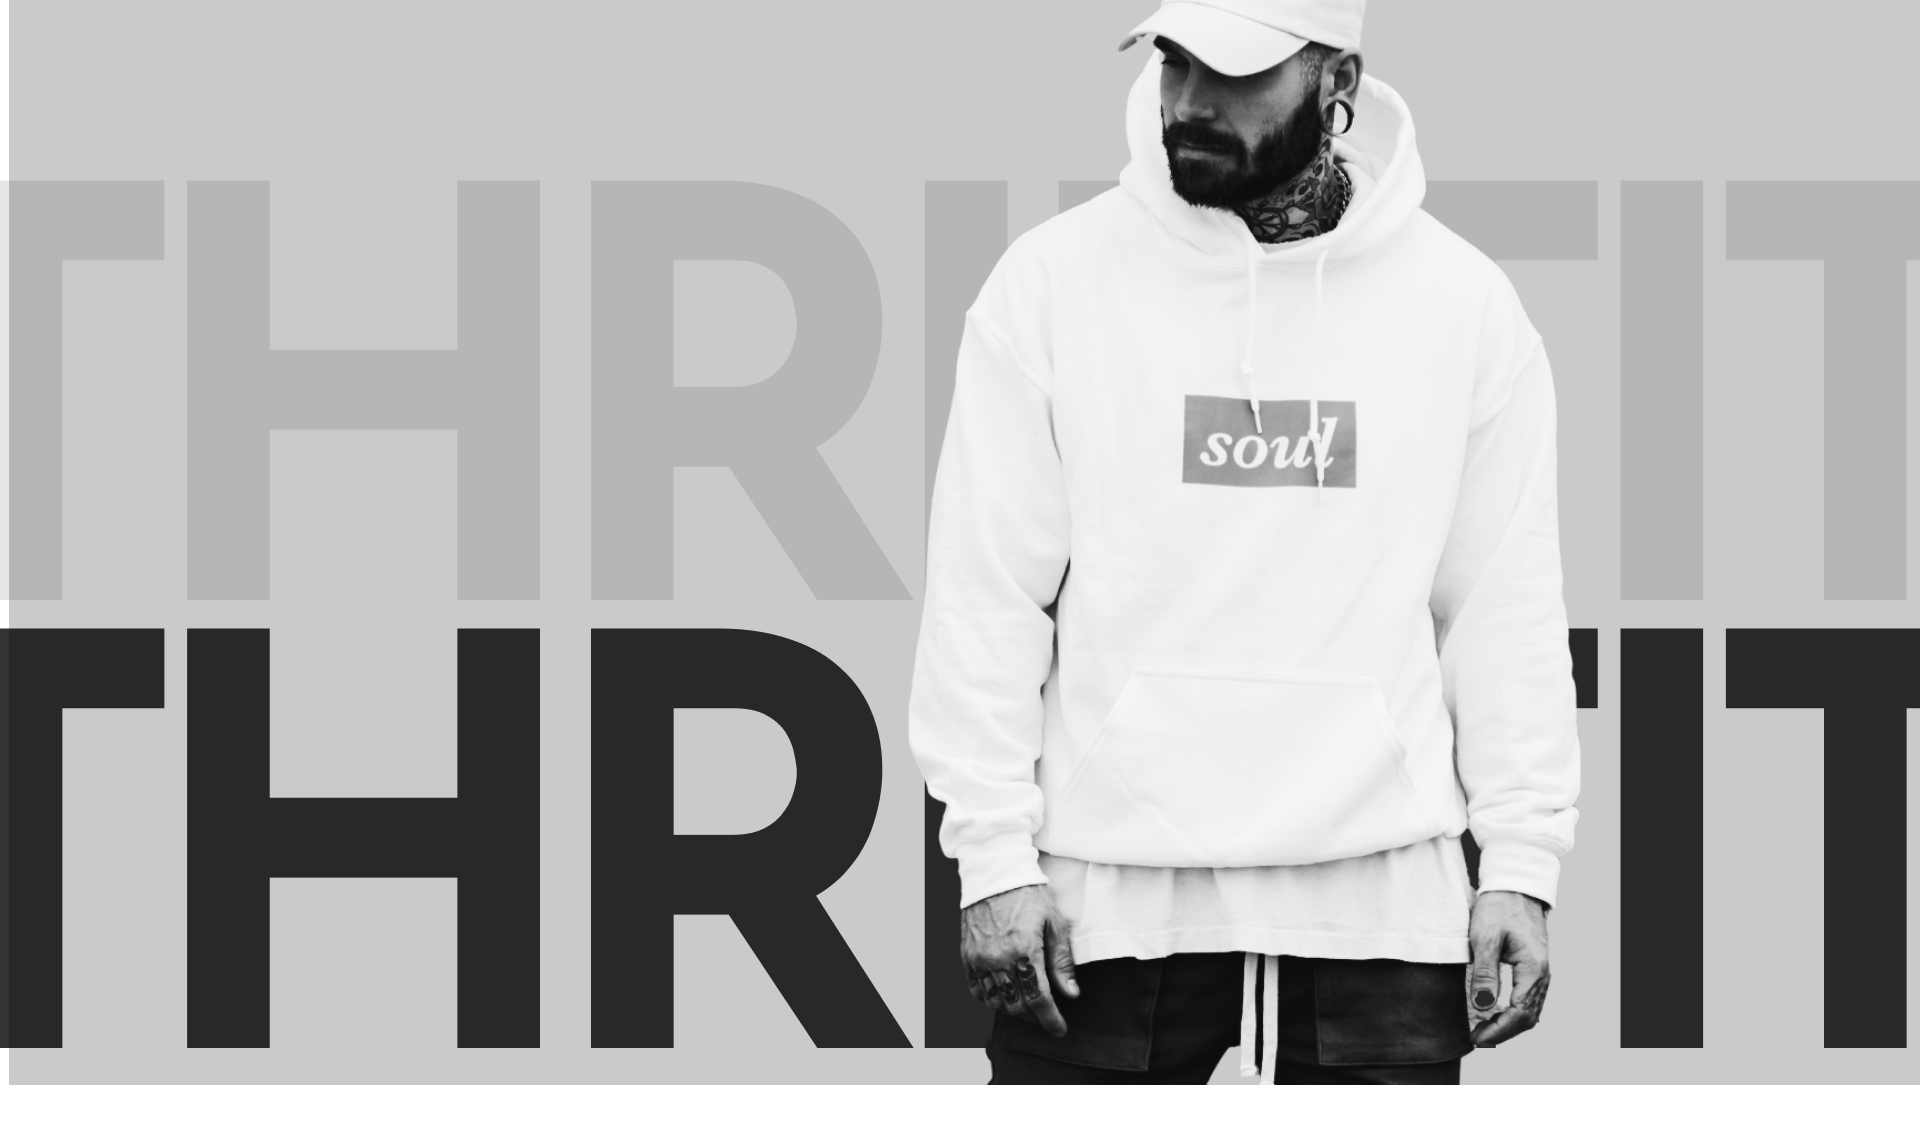
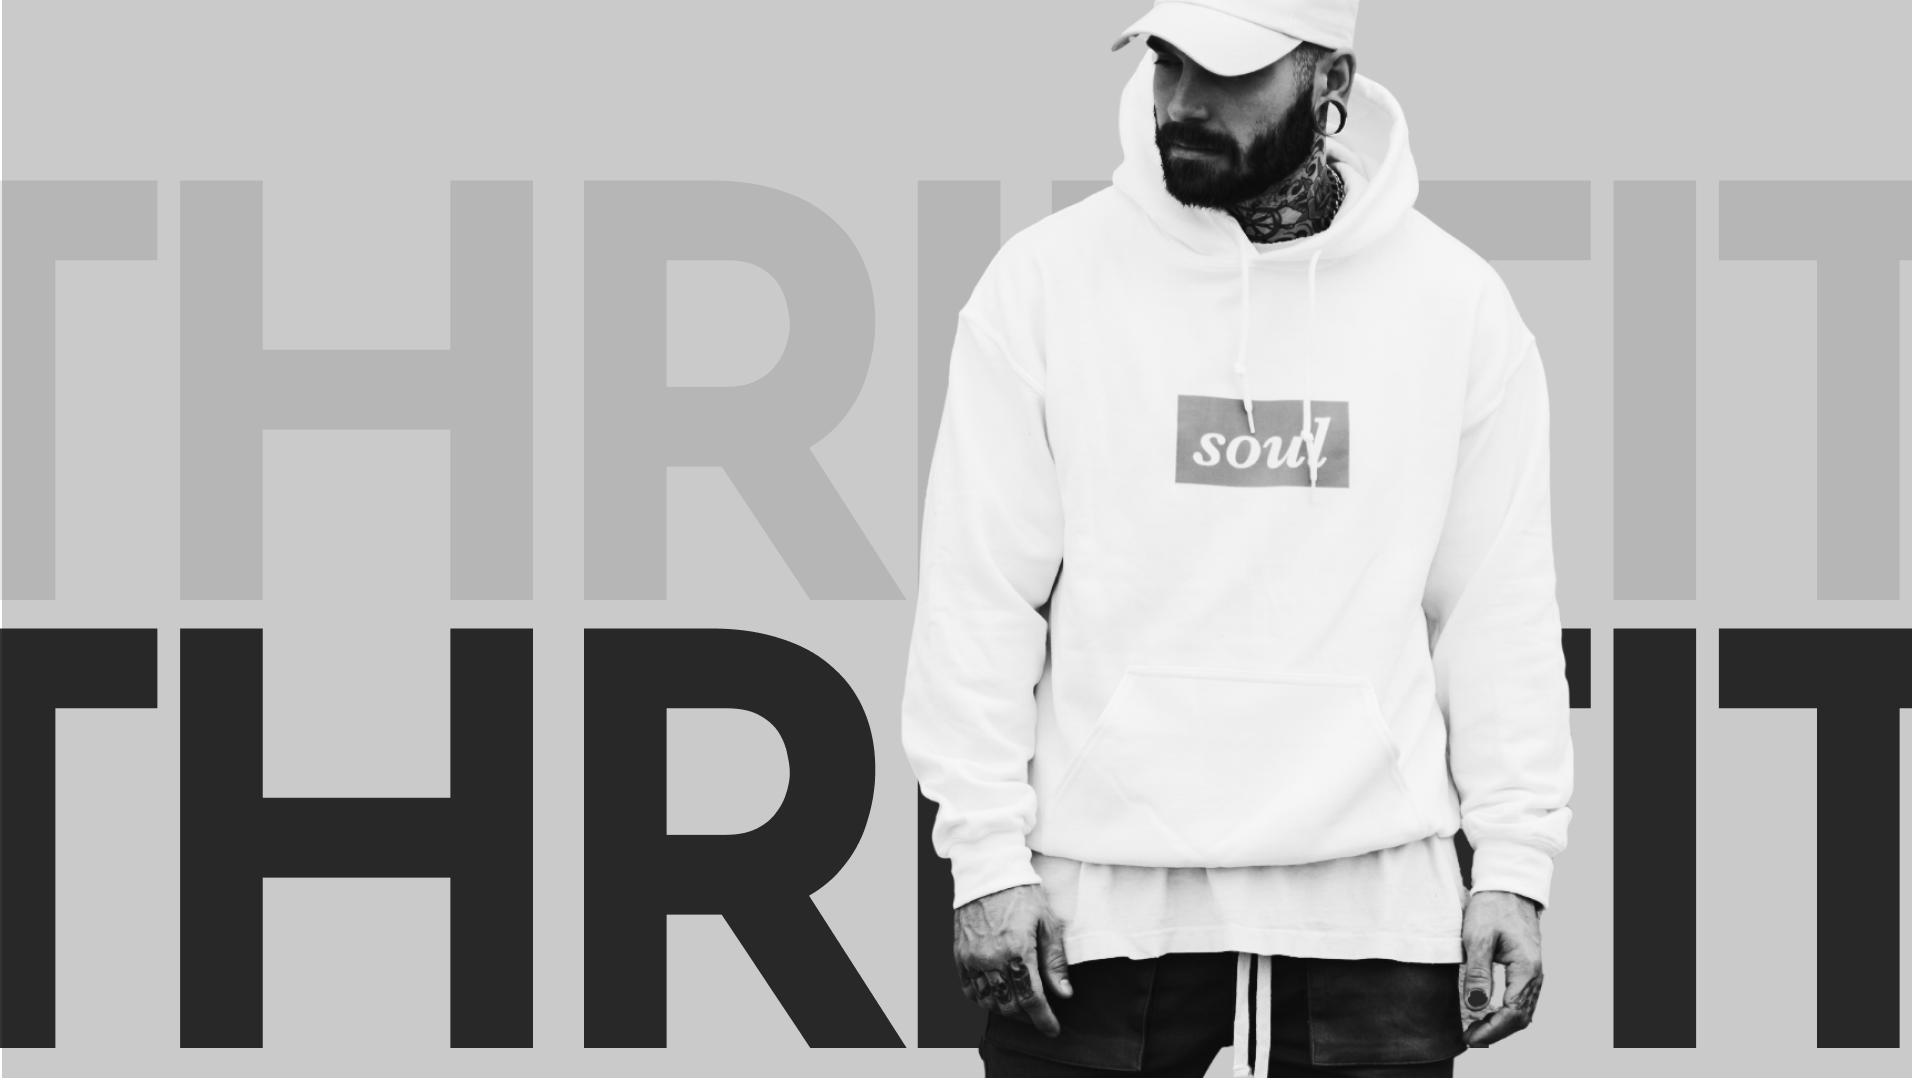
image fixed + footer semi black xd (not finished)

diff --git a/index1.html b/index1.html
@@ -8,162 +8,9 @@
   </head>
   <body>
     <div class="home-page-NO-LOGIN">
-      <div class="div">
-        <div class="overlap">
-          <footer class="footer">
-            <div class="overlap-group">
-              <div class="bottom">
-                <p class="text-wrapper">© 2022 ThriftIT. All rights reserved.</p>
-                <div class="rectangle"></div>
-              </div>
-              <div class="payments-shipping">
-                Payments<br />shipping<br />product Returns<br />faqs<br />checkout<br />other Issues
-              </div>
-              <div class="help-centre">HELP CENTRE</div>
-              <p class="how-it-work-our">How It Work<br />our Packages<br />promotions<br />refer A Friend</p>
-              <div class="about">ABOUT</div>
-              <div class="home-about-us-offers">Home<br />about Us<br />offers<br />services<br />contact Us</div>
-              <div class="quick-links">QUICK LINKS</div>
-              <div class="social">
-                <div class="text-wrapper-2"></div>
-                <div class="text-wrapper-3"></div>
-                <div class="text-wrapper-4"></div>
-                <div class="text-wrapper-5"></div>
-                <div class="text-wrapper-6"></div>
-                <div class="text-wrapper-7"></div>
-              </div>
-              <div class="logo"><div class="thrifti-t">THRIFTIT</div></div>
-            </div>
-          </footer>
-          <div class="banner">
-            <div class="register-form">
-              <button class="btn">
-                <div class="subscribe-now-wrapper"><div class="subscribe-now">SUBSCRIBE NOW</div></div>
-              </button>
-              <div class="email-address">
-                <div class="div-wrapper"><div class="text-wrapper-8">Your email address</div></div>
-              </div>
-              <p class="p">Sign Up for our newsletter and never miss any offers</p>
-              <p class="get-OFF-on-your">
-                <span class="span">Get </span>
-                <span class="text-wrapper-9">20% OFF</span>
-                <span class="text-wrapper-10">&nbsp;</span>
-                <span class="span">on your first purchase</span>
-              </p>
-            </div>
-          </div>
-        </div>
-        <div class="features">
-          <div class="group">
-            <div class="element-secure-payment">100% Secure Payment</div>
-            <p class="lorem-ipsum-dolor">Lorem Ipsum Dolor Sit Amet, Consectetur Adipi Elit. Ipsum Dolor Sit Amet.</p>
-            <img class="img" src="https://c.animaapp.com/HCn1ESSz/img/group@2x.png" />
-          </div>
-          <div class="group-2">
-            <div class="quality-guarantee">Quality Guarantee</div>
-            <p class="lorem-ipsum-dolor-2">Lorem Ipsum Dolor Sit Amet, Consectetur Adipi Elit. Ipsum Dolor Sit Amet.</p>
-            <img class="group-3" src="https://c.animaapp.com/HCn1ESSz/img/group-3@2x.png" />
-          </div>
-          <div class="group-4">
-            <div class="guaranteed-savings">Guaranteed Savings</div>
-            <p class="lorem-ipsum-dolor-3">Lorem Ipsum Dolor Sit Amet, Consectetur Adipi Elit. Ipsum Dolor Sit Amet.</p>
-            <img class="group-5" src="https://c.animaapp.com/HCn1ESSz/img/group-2@2x.png" />
-          </div>
-          <div class="group-6">
-            <div class="text-wrapper-11">Fast delivery</div>
-            <p class="count-on-us-to">
-              Count On Us To Uphold Our Promise Of Efficiency And Speed, Bringing Your Order To Your Doorstep In No Time
-              At All.
-            </p>
-            <img class="group-7" src="https://c.animaapp.com/HCn1ESSz/img/group-1@2x.png" />
-          </div>
-        </div>
-        <div class="products">
-          <div class="element">
-            <img class="rectangle-2" src="https://c.animaapp.com/HCn1ESSz/img/rectangle-127-1@2x.png" />
-            <div class="text-wrapper-12">Prototype</div>
-            <div class="text-wrapper-13">$30.00</div>
-          </div>
-          <div class="element-2">
-            <img class="rectangle-2" src="https://c.animaapp.com/HCn1ESSz/img/rectangle-127@2x.png" />
-            <div class="text-wrapper-12">Prototype</div>
-            <div class="text-wrapper-13">$30.00</div>
-          </div>
-          <div class="element-3">
-            <img class="rectangle-3" src="https://c.animaapp.com/HCn1ESSz/img/rectangle-119-3@2x.png" />
-            <div class="PROTOTYPE">Prototype</div>
-            <div class="text-wrapper-14">$99.00</div>
-          </div>
-          <div class="element-4">
-            <img class="rectangle-3" src="https://c.animaapp.com/HCn1ESSz/img/rectangle-119-2@2x.png" />
-            <div class="PROTOTYPE">Prototype</div>
-            <div class="text-wrapper-14">$99.00</div>
-          </div>
-          <div class="element-5">
-            <img class="rectangle-2" src="https://c.animaapp.com/HCn1ESSz/img/rectangle-119-1@2x.png" />
-            <div class="PROTOTYPE-2">Prototype</div>
-            <div class="text-wrapper-14">$70.00</div>
-          </div>
-          <div class="element-6">
-            <img class="rectangle-2" src="https://c.animaapp.com/HCn1ESSz/img/rectangle-119@2x.png" />
-            <div class="PROTOTYPE-2">Prototype</div>
-            <div class="text-wrapper-14">$90.00</div>
-          </div>
-          <div class="element-7">
-            <div class="PROTOTYPE-3">Prototype</div>
-            <div class="text-wrapper-15">$30.00</div>
-            <img class="rectangle-2" src="https://c.animaapp.com/HCn1ESSz/img/rectangle-94-1@2x.png" />
-          </div>
-          <div class="element-8">
-            <div class="PROTOTYPE-3">Prototype</div>
-            <div class="text-wrapper-15">$30.00</div>
-            <img class="rectangle-2" src="https://c.animaapp.com/HCn1ESSz/img/rectangle-94@2x.png" />
-          </div>
-          <div class="section-title">
-            <img class="line" src="https://c.animaapp.com/HCn1ESSz/img/line-1.svg" />
-            <div class="new-arrivals">NEW ARRIVALS</div>
-          </div>
-          <button class="overlap-group-wrapper">
-            <div class="view-all-products-wrapper"><div class="view-all-products">VIEW ALL PRODUCTS</div></div>
-          </button>
-        </div>
-        <div class="overlap-2">
-          <div class="billboard">
-            <div class="overlap-3">
-              <div class="slider">
-                <div class="overlap-group-2">
-                  <div class="rectangle-4"></div>
-                  <div class="text-wrapper-16">THRIFTIT</div>
-                  <div class="thriftit">THRIFTIT</div>
-                  <img
-                    class="kam-idris"
-                    src="https://c.animaapp.com/HCn1ESSz/img/kam-idris--hqhx3lbn18-unsplash-2.png"
-                  />
-                </div>
-              </div>
-              <div class="caption">
-                <div class="overlap-4">
-                  <button class="button">
-                    <div class="overlap-group-3">
-                      <div class="start-shopping">START SHOPPING</div>
-                      <img
-                        class="fluent-arrow-right"
-                        src="https://c.animaapp.com/HCn1ESSz/img/fluent-arrow-right-28-regular@2x.png"
-                      />
-                    </div>
-                  </button>
-                  <div class="street-wears">STREET<br />WEARS</div>
-                  <p class="high-quality-cool">HIGH QUALITY COOL TSHIRTS FOR STREET FASHION</p>
-                </div>
-              </div>
-            </div>
-          </div>
           <header class="header">
             <div class="nav">
-              <div class="home-shop-OUTFIT">
-                HOME&nbsp;&nbsp;&nbsp;&nbsp;&nbsp;&nbsp;&nbsp;&nbsp;&nbsp;&nbsp;&nbsp;&nbsp;SHOP&nbsp;&nbsp;&nbsp;&nbsp;&nbsp;&nbsp;&nbsp;&nbsp;&nbsp;&nbsp;&nbsp;&nbsp;OUTFIT
-                FINDER
-              </div>
+
             </div>
             <div class="rectangle-5"></div>
             <div class="cart">

diff --git a/erreur/test.Html b/erreur/test.Html
@@ -36,7 +36,6 @@
           <li><a href="#outfit" onclick="toggleMenu();">Outfit Finder</a></li>
       </ul>
     </header>
-
   <section class="home" id="home">
     <div class="caption">
         <div class="street-wears">STREET<br />WEARS</div>
@@ -61,12 +60,12 @@
         <path d="M5.026 15c6.038 0 9.341-5.003 9.341-9.334 0-.14 0-.282-.006-.422A6.685 6.685 0 0 0 16 3.542a6.658 6.658 0 0 1-1.889.518 3.301 3.301 0 0 0 1.447-1.817 6.533 6.533 0 0 1-2.087.793A3.286 3.286 0 0 0 7.875 6.03a9.325 9.325 0 0 1-6.767-3.429 3.289 3.289 0 0 0 1.018 4.382A3.323 3.323 0 0 1 .64 6.575v.045a3.288 3.288 0 0 0 2.632 3.218 3.203 3.203 0 0 1-.865.115 3.23 3.23 0 0 1-.614-.057 3.283 3.283 0 0 0 3.067 2.277A6.588 6.588 0 0 1 .78 13.58a6.32 6.32 0 0 1-.78-.045A9.344 9.344 0 0 0 5.026 15z"/>
       </symbol>
     </svg>
-    <div class="b-example-divider"></div>
+    <div class="b-example-divider .panel-footer.panel-custom "></div>
     
-    <div class="container">
-      <footer class="row row-cols-1 row-cols-sm-2 row-cols-md-5 py-5 my-5 border-top">
-        <div class="col mb-3">
-          <a href="/" class="d-flex align-items-center mb-3 link-body-emphasis text-decoration-none">
+    <div class="container .panel-footer.panel-custom">
+      <footer class="row row-cols-1 row-cols-sm-2 row-cols-md-5 py-5 my-5 border-top panel-footer panel-custom">
+        <div class="col mb-3 .panel-footer.panel-custom">
+          <a href="/" class="d-flex align-items-center mb-3 link-body-emphasis text-decoration-none ">
             <svg class="bi me-2" width="40" height="32"><use xlink:href="#bootstrap"/></svg>
           </a>
           <p class="text-body-secondary">lll</p>
@@ -98,7 +97,7 @@
           </ul>
         </div>
     
-        <div class="col mb-3">
+        <div class="">
           <h5>HELP CENTRE</h5>
           <ul class="nav flex-column">
             <li class="nav-item mb-2"><a href="#" class="nav-link p-0 text-body-secondary">Payments</a></li>

diff --git a/erreur/style.css b/erreur/style.css
@@ -11,6 +11,11 @@
     font-size: 3.5rem;
   }
 }
+.panel-footer.panel-custom {
+  background: rgb(46, 45, 45);
+  background-color :#000000;
+  color: rgb(255, 254, 254);
+}
 .navbar-brand {
   position: absolute;
   color: rgb(7, 7, 7);
@@ -126,7 +131,7 @@ body {
 .logo{
   color: rgb(7, 7, 7);
   font-weight: bolder;
-  font-size: 2.3em;
+  font-size: 2.8em;
   text-decoration: none;
 }
 .logo-header{
@@ -147,7 +152,7 @@ body {
 .Headeractuelle{
   position: fixed;
   top: 3%;
-  right: 0.8cm;
+  right: 5.5cm;
   padding: 20px 10px;
   width: 100%;
   z-index: 1;
@@ -168,17 +173,18 @@ body {
   color: #070707;
   text-decoration: none;
   margin-left: 30px;
-  font-weight: 700;
+  font-weight: 800;
 }
 .home{
   position: relative;
   width: 100%;
   min-height: 100vh;
-  display: flex;
+  display: flex; 
   justify-content: center;
   align-items: center;
   background-image: url(slider.png);
   background-size: cover;
+  background-position: 0%;
 }
 .home .contenu{
   max-width: 70%;
